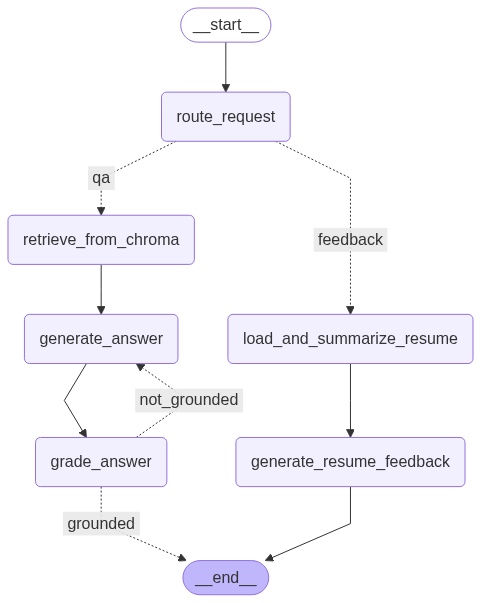
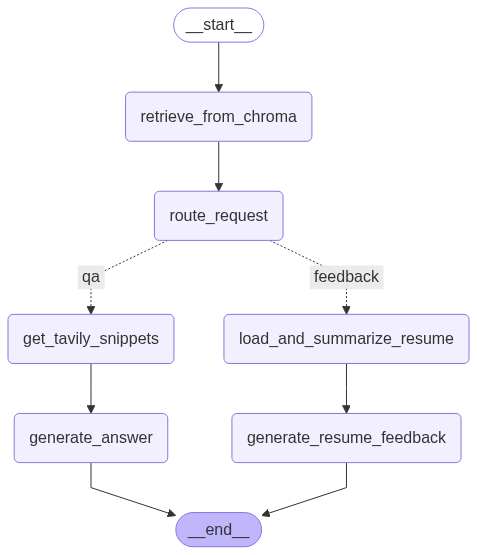
delete local chroma client

diff --git a/llm-service/chat_langgraph.py b/llm-service/chat_langgraph.py
@@ -30,7 +30,7 @@ from chromadb import chromadb
 import re
 import chromadb
 
-chroma_client = chromadb.HttpClient(host="localhost", port=8001)
+# chroma_client = chromadb.HttpClient(host="localhost", port=8001)
 
 # ==============================================================================
 # 1. 초기화 및 설정
@@ -509,16 +509,7 @@ def create_workflow():
 
     # Q&A 경로
     graph.add_edge("get_tavily_snippets", "generate_answer")
-    # graph.add_edge("generate_answer", "grade_answer")
     graph.add_edge("generate_answer", END)
-    # graph.add_conditional_edges(
-    #     "grade_answer",
-    #     lambda state: "grounded" if state.get("is_grounded", False) else "not_grounded",
-    #     {
-    #         "grounded": END,
-    #         "not_grounded": "generate_answer"  # (수정) 실패 시 답변 재생성 (Self-Correction)
-    #     }
-    # )
 
     # 피드백 경로
     graph.add_edge("load_and_summarize_resume", "generate_resume_feedback")
@@ -562,7 +553,6 @@ if __name__ == "__main__":
             node_name = list(output.keys())[0]
             node_output = output[node_name]
             print(f"--- 노드 '{node_name}' 실행 완료 ---")
-            # print(f"상태: {node_output}\n")
         
         final_state = agent_app.invoke(qa_input)
         print("\n[최종 답변]:", final_state.get('answer'))
@@ -578,8 +568,6 @@ if __name__ == "__main__":
     
     # 테스트용 이력서 파일 생성
     resume_file = "./file_data/이력서_이준기.pdf"
-    # with open(resume_file, "w", encoding="utf-8") as f:
-    #     f.write("이준기\nPython, Java 개발 경험. LangChain 프로젝트 수행.")
     
     feedback_input = {
         "question": "제 이력서에서 자기소개서만 피드백 해주세요.",
@@ -595,7 +583,7 @@ if __name__ == "__main__":
     except Exception as e:
         print(f"\n[오류 발생]: {e}")
         
-    # # 그래프 시각화
+    # 그래프 시각화
     # try:
     #     graph_image_path = "agent_workflow.png"
     #     with open(graph_image_path, "wb") as f:
